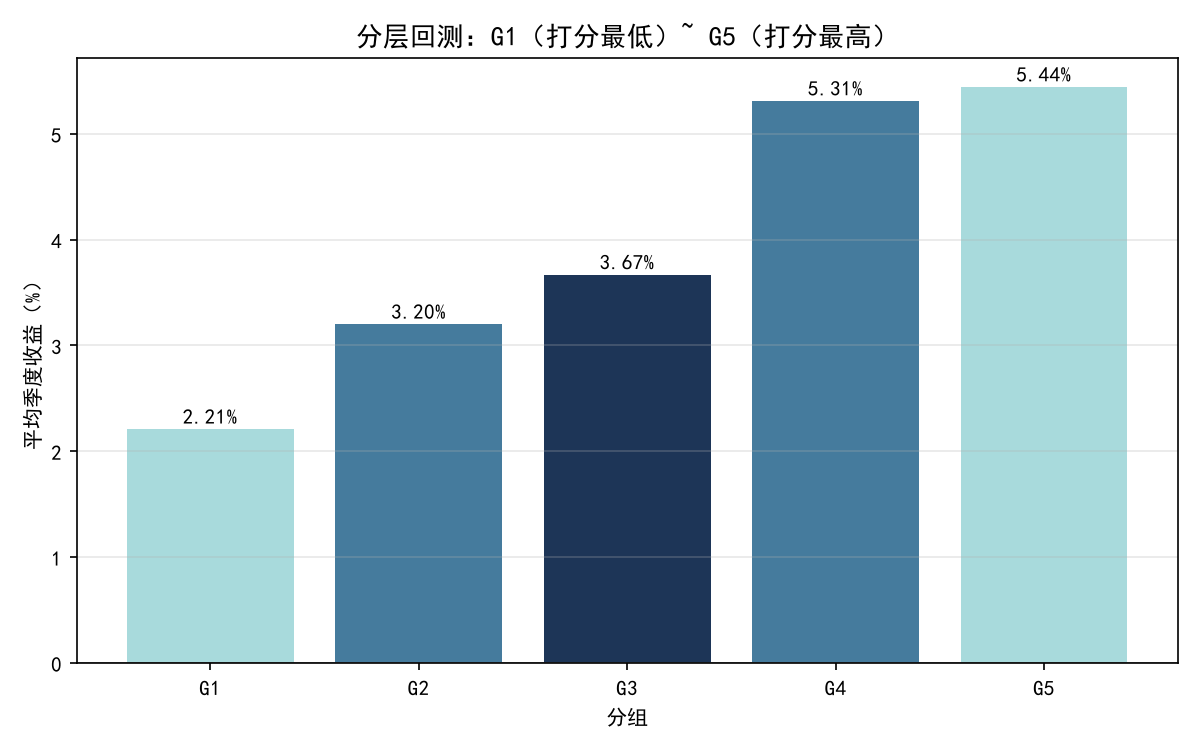
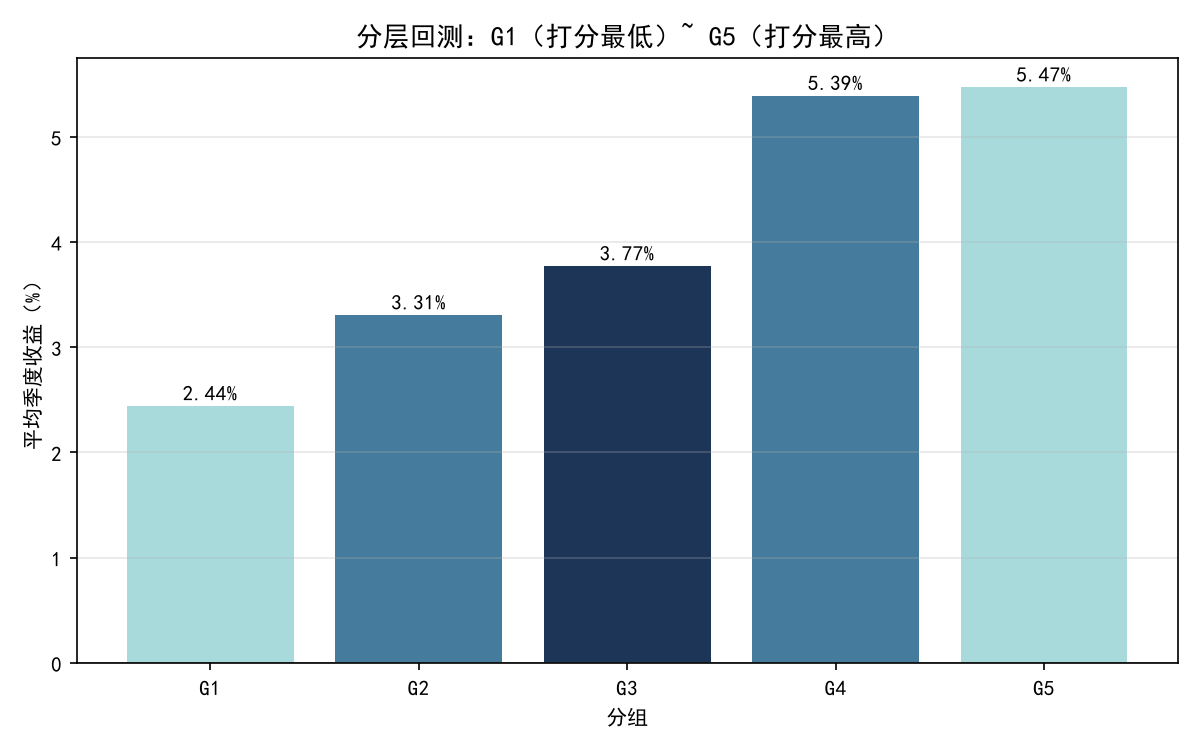
fix: T+1开盘成交, 更新回测结果与局限说明

diff --git a/backtest.py b/backtest.py
@@ -1,22 +1,35 @@
 # backtest.py
 import pandas as pd
-import numpy as np
 from config import FACTOR_WEIGHTS, PERIODS_PER_YEAR
 
-# 从新位置 re-export，保持旧 import 兼容
+# Re-export 保持向下兼容，避免其他地方旧引用报错
 from src.signal.combine import composite_score
 from src.backtest.metrics import performance_summary
 
 
 def calc_period_return(klines, rb_date, next_date):
-    """计算每只股票从 rb_date 到 next_date 的收益率"""
+    """
+    计算持仓期收益：T日收盘产生信号，T+1日开盘买入，持有至下期调仓日收盘。
+    对停牌或缺失数据的股票进行跳过处理，由上层计算等权平均时忽略。
+    """
     rets = {}
     rb_date = pd.to_datetime(rb_date)
     next_date = pd.to_datetime(next_date)
+    
     for sym, df in klines.items():
         past = df[df['date'] <= rb_date]
-        fut = df[(df['date'] > rb_date) & (df['date'] <= next_date)]
-        if len(past) == 0 or len(fut) == 0:
+        if past.empty:
             continue
-        rets[sym] = fut['close'].iloc[-1] / past['close'].iloc[-1] - 1
+            
+        # 获取调仓日之后（即 T+1 日及以后）的行情
+        fut = df[(df['date'] > rb_date) & (df['date'] <= next_date)]
+        if fut.empty:
+            continue
+            
+        open_t1 = fut['open'].iloc[0]
+        close_end = fut['close'].iloc[-1]
+        
+        if open_t1 > 0:
+            rets[sym] = close_end / open_t1 - 1
+            
     return rets
